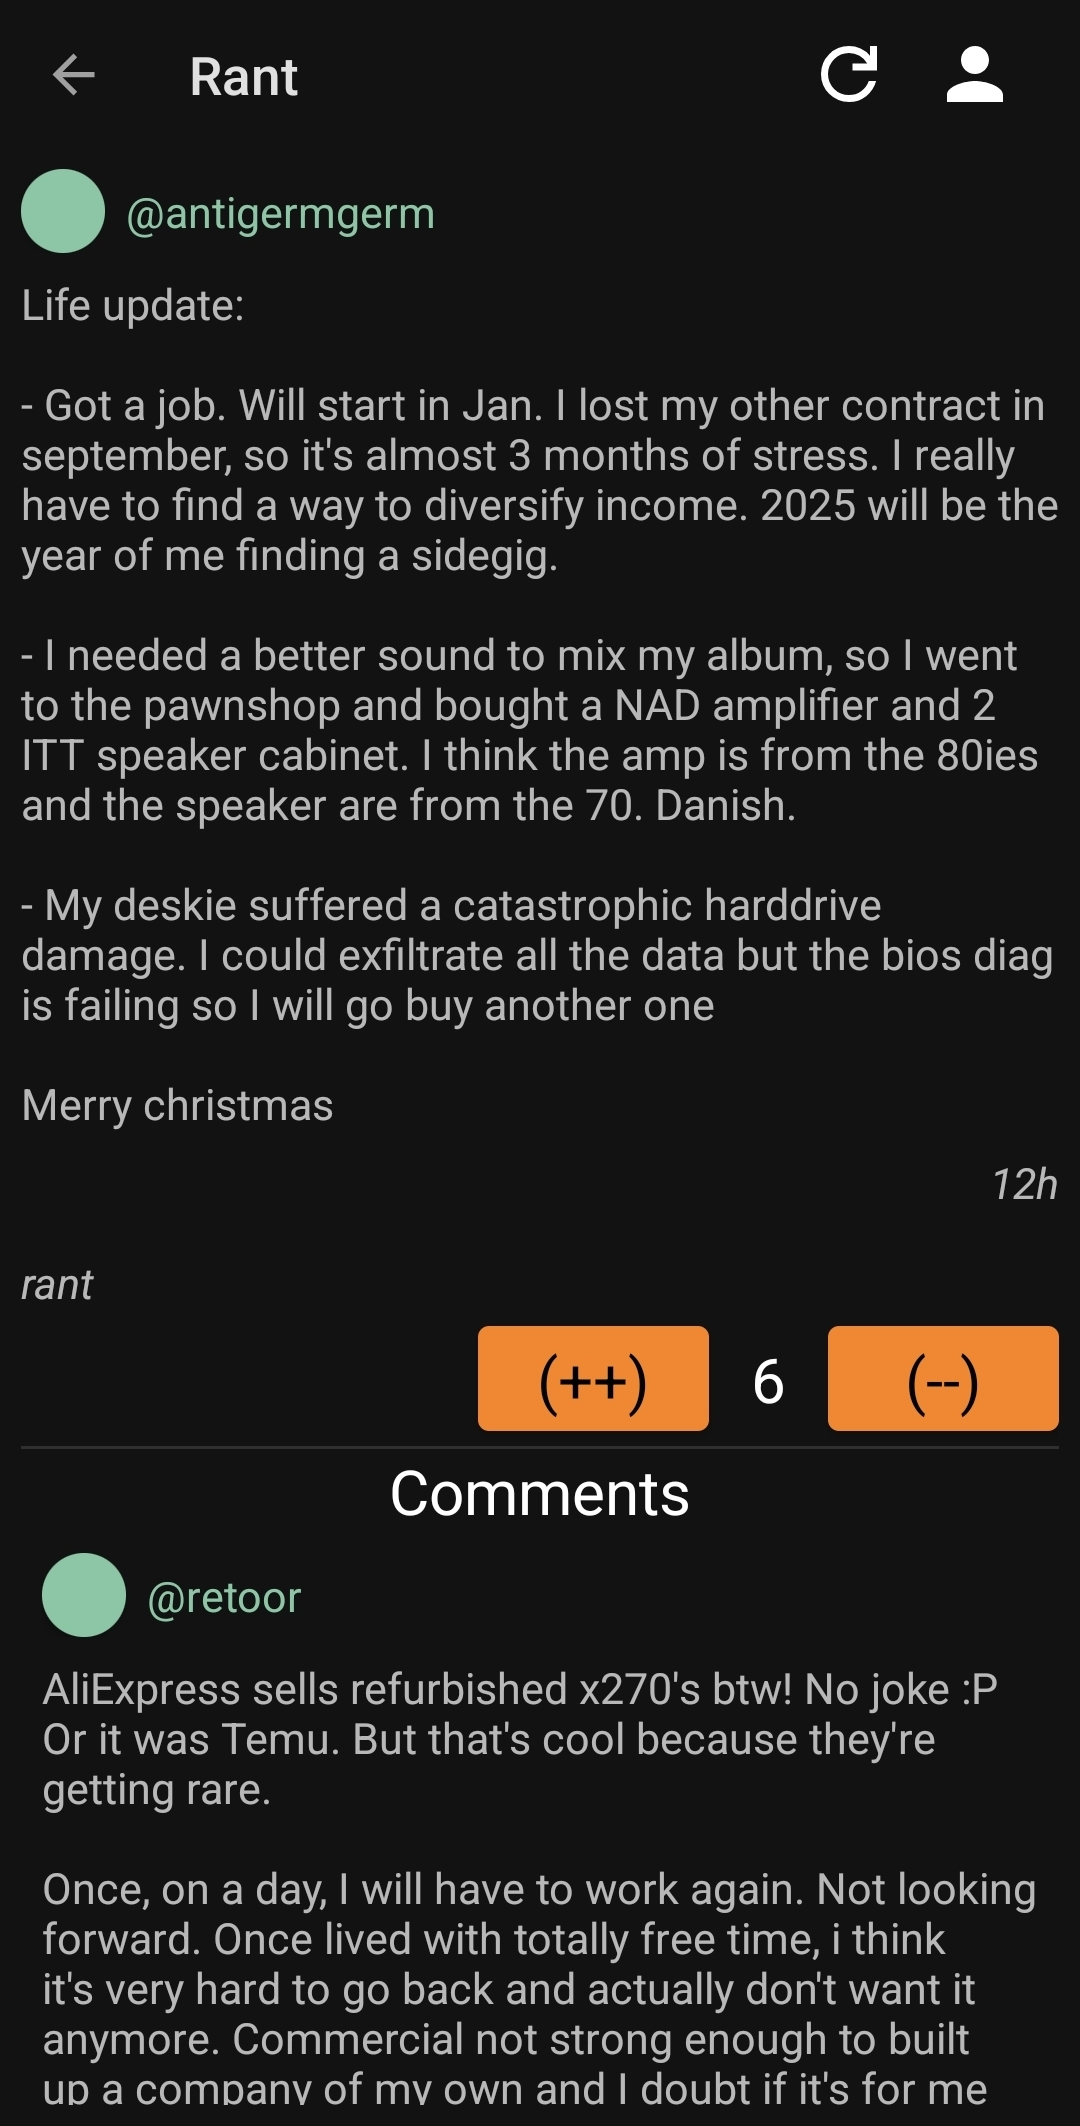
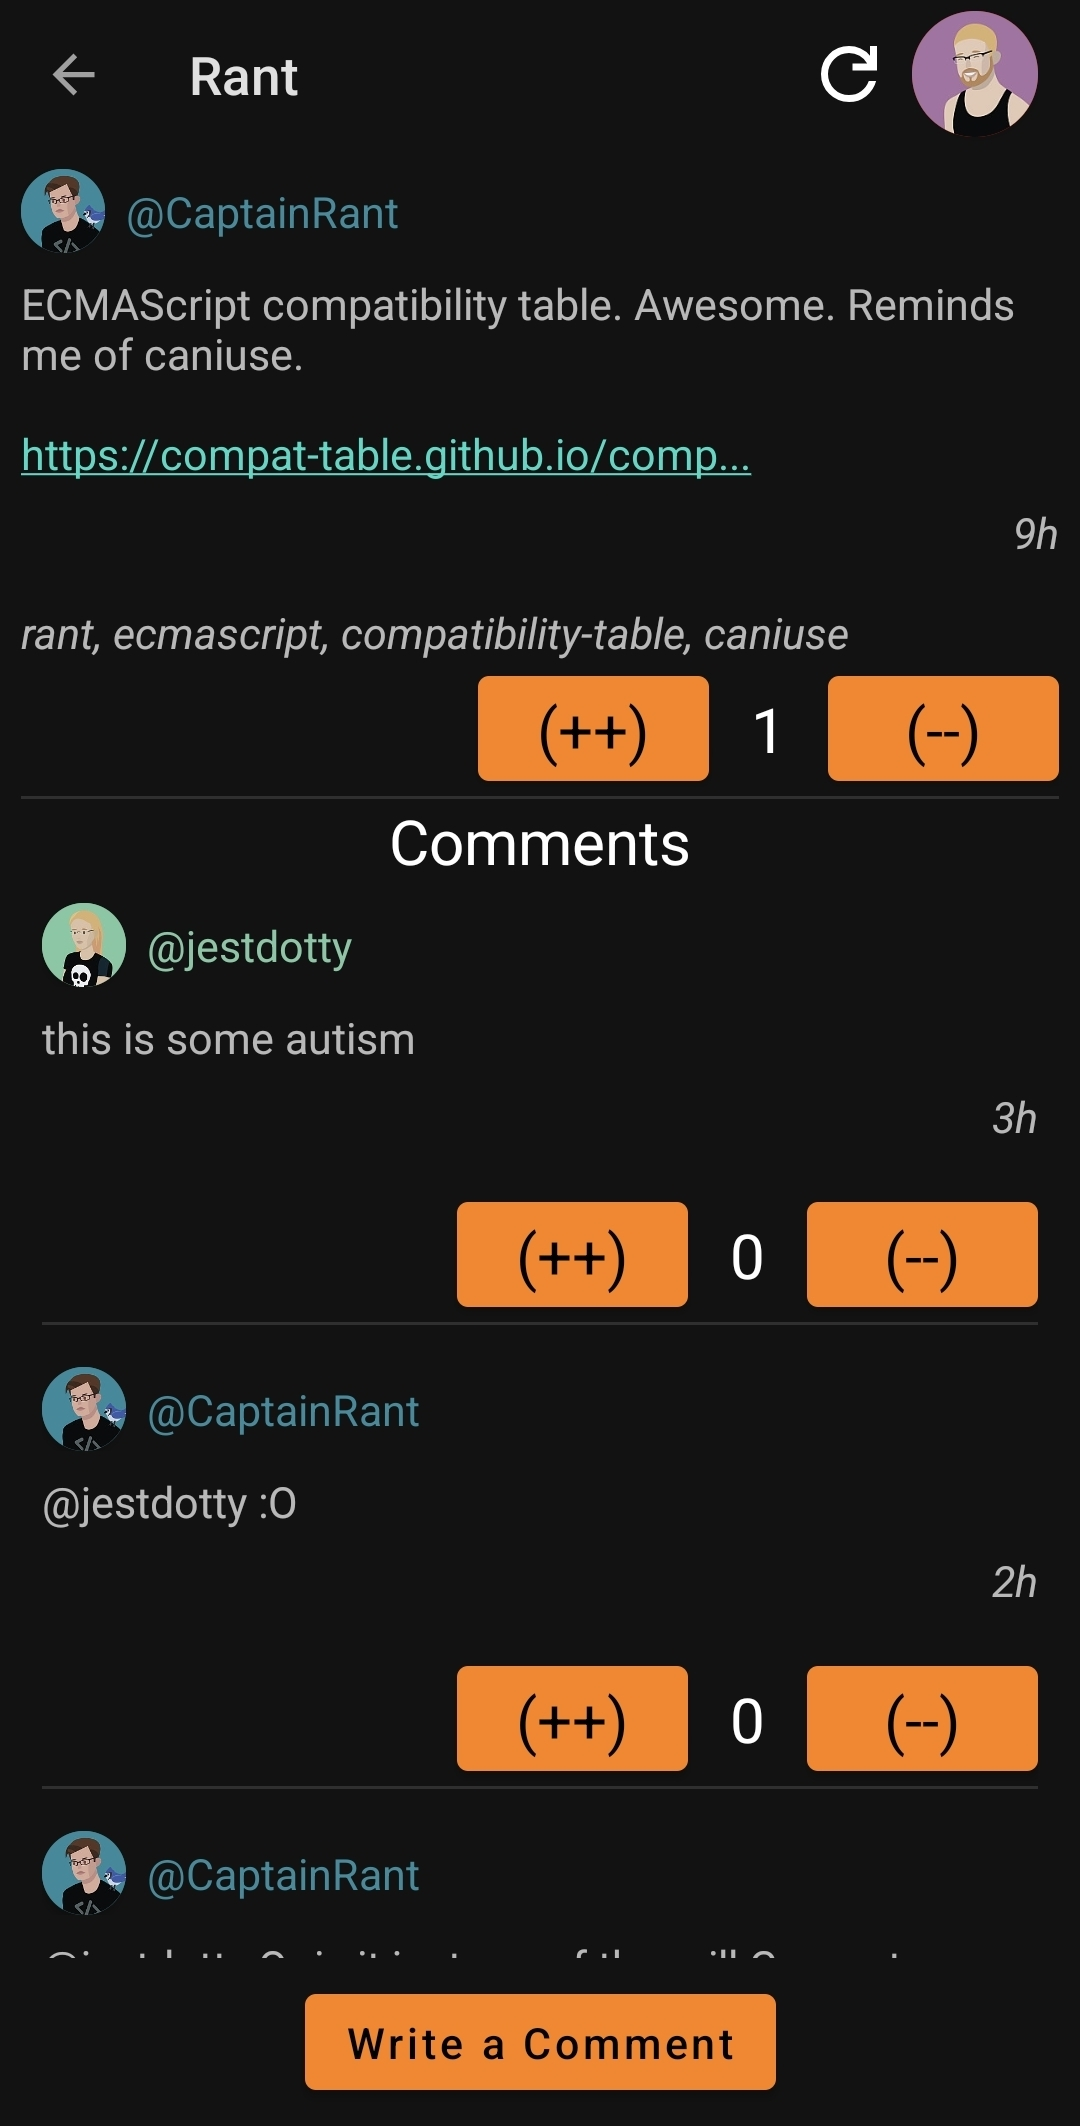
New Release! (v0.2)
Updated README, updated images, and updated versions in gradle and the
VersionChecker.

diff --git a/app/src/main/java/com/yurikh/yourant/VersionChecker.java b/app/src/main/java/com/yurikh/yourant/VersionChecker.java
@@ -23,7 +23,7 @@ import okhttp3.Request;
 import okhttp3.Response;
 
 public class VersionChecker {
-    public static final String GITHUB_TAG = "v0.1.2-alpha";
+    public static final String GITHUB_TAG = "v0.2.0-alpha";
     public static final String GITHUB_API_URL = "https://api.github.com/repos/yuriKhordal/youRant/releases/latest";
     public static final String GITHUB_BROWSER_URL = "https://github.com/yuriKhordal/youRant/releases/latest";
 

diff --git a/README.md b/README.md
@@ -3,8 +3,6 @@
 
 <img src="images/activity_rant_feed_logged_in.jpg" alt="Rant Page" height=600 />
 
-> ***Note**: Due to devRant's expired certificates, using retoor's [dr.molodetz.nl](https://dr.molodetz.nl) domain instead of [devrant.com](https://devrant.com).*
-
 ## Table of Contents
 - [Features](#features)
     * [Planned Features (Short Term - MVP)](#planned-features-short-term---mvp)
@@ -26,8 +24,10 @@ Currently the following things are implemented:
 - Logging in.
 - Posting a new rant.
 - Posting a comment on a rant.
-
-***Note**: The upvote and downvote buttons are currently not implemented and are just for show.*
+- Upvotes and downvotes.
+- Auto retries for Slim Application Error.
+- Notifications for @mentions.
+- Limited profile pages.
 
 ---
 ***Note**: The lists of Planned Features are themselves not final, and may be subject to change.*
@@ -61,17 +61,17 @@ The following features **may** be worked on after the release(v1.0) of 'youRant'
 - Themes
 
 ## Development Roadmap to Release
-- [ ] Alpha Release
+- [x] Alpha Release
     * [x] Rants Feed
     * [x] Rant Page (Viewing a rant and it's comments)
     * [x] Authentication (Login and safely store auth tokens)
     * [x] Posting rants and comments
     * [x] Certificate pinning, and switch API requests from 'dr.molodetz.nl/api' back to 'devrant.com/api'
-    * [ ] Notifications
+    * [x] Notifications (Partial)
     * [x] Upvoting & Downvoting
     * [x] Display Attachments
 - [ ] Beta Release
-    * [ ] User Profiles
+    * [x] User Profiles (Partial)
     * [ ] Settings
     * [ ] Edit & Delete
     * [ ] Clickable '@' mentions
@@ -90,7 +90,6 @@ The following features **may** be worked on after the release(v1.0) of 'youRant'
 
 ## Known Bugs
 - Cosmetic HTML tags in the rant page within the content of the rant or comments are parsed as HTML code. Fixing Priority - High.
-- [Fixed Recently] Login page displays login button, allowing to infinitely reopen the login page which would require closing a lot of login pages to go back. Fixing Priority - Medium.
 
 ## Installation
 ### Easy way - Download APK
